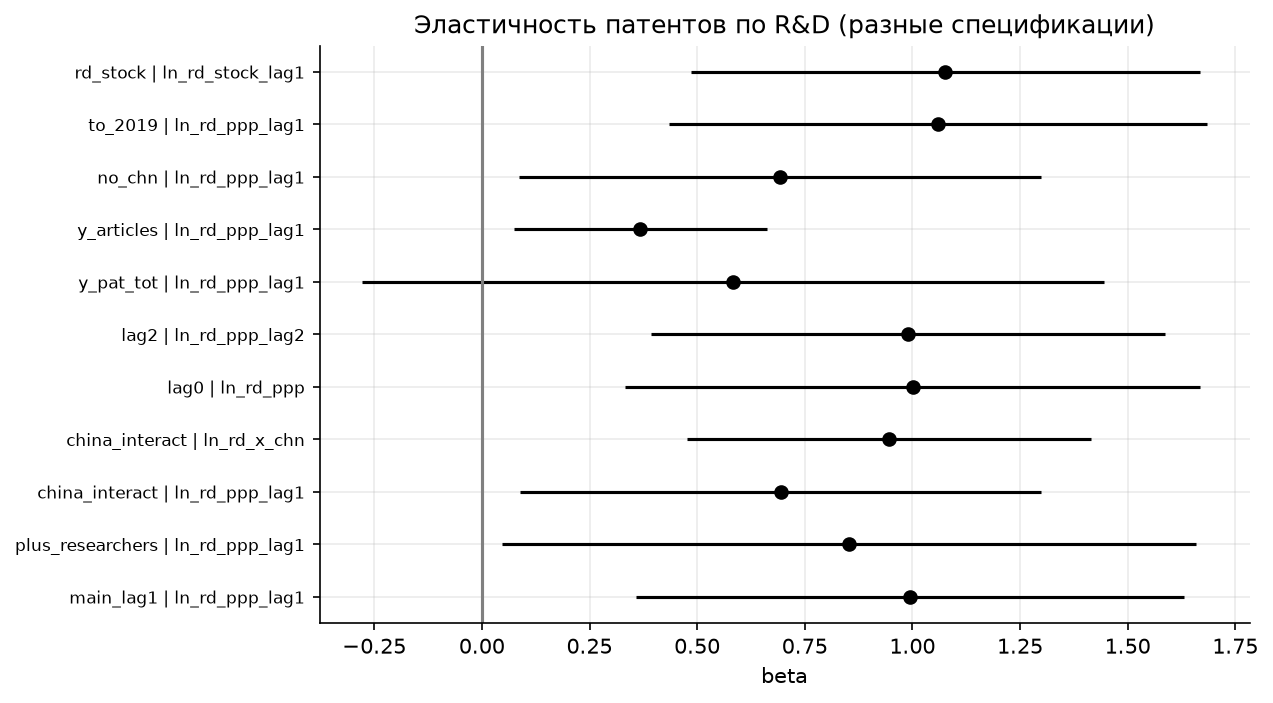
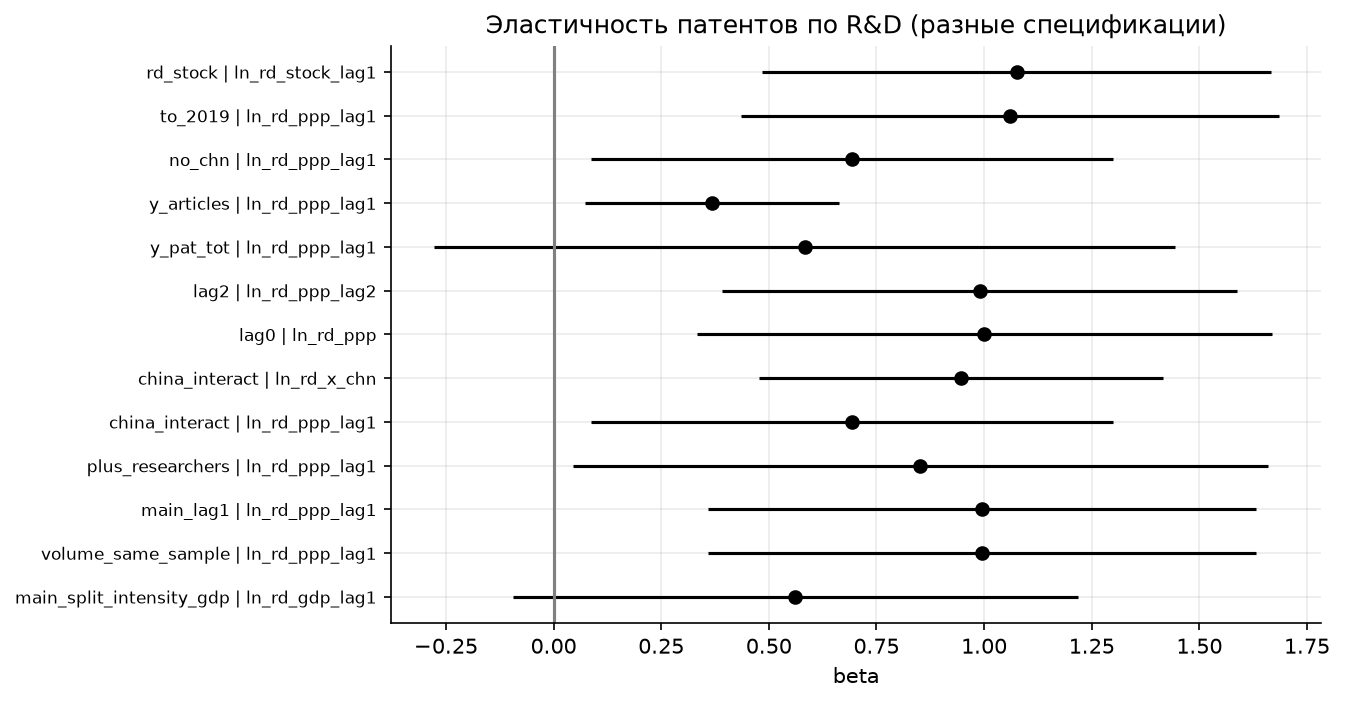
feat(H2): add split specification (R&D intensity + GDP) as main; fix rd_ppp description

diff --git a/notebooks/deep/D03_knowledge_production.py b/notebooks/deep/D03_knowledge_production.py
@@ -15,10 +15,22 @@ from _common import load_panel, save_table, save_fig, style_axes, twfe, within_d
 
 panel = load_panel().copy()
 panel["ln_rd_x_chn"] = panel["ln_rd_ppp_lag1"] * panel["is_chn"]
+panel = panel.sort_values(["country_iso3", "year"])
+panel["ln_rd_gdp_lag1"] = np.log(panel.groupby("country_iso3")["rd_gdp"].shift(1))
+panel["ln_gdp_lag1"] = np.log(panel.groupby("country_iso3")["gdp_ppp"].shift(1))
 
 # %%
 specs = []
-# main
+# main: R&D volume is intensity x GDP by construction, so the two parts are estimated separately
+d_split = panel.dropna(subset=["ln_pat_res", "ln_rd_gdp_lag1", "ln_gdp_lag1", "ln_rd_ppp_lag1"])
+t = twfe(d_split, "ln_pat_res", ["ln_rd_gdp_lag1", "ln_gdp_lag1"])
+t["spec"] = "main_split_intensity_gdp"
+specs.append(t)
+t = twfe(d_split, "ln_pat_res", ["ln_rd_ppp_lag1"])
+t["spec"] = "volume_same_sample"
+specs.append(t)
+
+# previous main (kept as a check: same model with the beta1=beta2 restriction)
 d = panel.dropna(subset=["ln_pat_res", "ln_rd_ppp_lag1"])
 t = twfe(d, "ln_pat_res", ["ln_rd_ppp_lag1"])
 t["spec"] = "main_lag1"

diff --git a/scripts/deep/build_panel.py b/scripts/deep/build_panel.py
@@ -171,7 +171,7 @@ def main() -> None:
         ("country_iso3", "ISO3 country code", "panel", "code", "identity", "OECD+CHN"),
         ("year", "Calendar year", "panel", "year", "identity", "2000-2023"),
         ("rd_gdp", "GERD % GDP", "World Bank / OECD fill", "%", "level", "CHE often biennial"),
-        ("rd_ppp", "GERD USD PPP constant-like", "OECD (+deflator if needed)", "mln USD PPP", "level", rd_note),
+        ("rd_ppp", "Оценка объёма R&D = доля R&D в ВВП × ВВП по ППС (не данные OECD)", "расчёт: World Bank rd_gdp × gdppc_ppp × pop", "USD PPP (постоянные цены)", "level", rd_note),
         ("researchers_pm", "Researchers per million", "World Bank", "per mn", "level", "coverage gaps"),
         ("articles", "S&E articles count", "World Bank", "count", "level", "volume not quality"),
         ("pat_res", "Resident patent applications", "World Bank", "count", "office-basis", "not origin"),

diff --git a/IMPLEMENTATION_CHECKLIST.md b/IMPLEMENTATION_CHECKLIST.md
@@ -75,16 +75,16 @@
 ## Stage 2 — H2: раздельная спецификация [Core]
 Субагент: Claude Sonnet 5, High Thinking
 ```text
-[ ] Блок контроля субагента
-[ ] Сортировка панели + ln_rd_gdp_lag1, ln_gdp_lag1 в D03
-[ ] Спецификации main_split_intensity_gdp и volume_same_sample (первыми в specs)
-[ ] python D03; jupytext
-[ ] Проверка: β интенсивности ≈ 0,561 (p≈0,094), β ВВП ≈ 1,752 (p≈0,002), N = 734, G = 39, CHN = 21
-[ ] D03_all_specs: +3 строки, старые идентичны; D03_vif идентичен
-[ ] Строка rd_ppp в data_dictionary_deep.csv и кортеж в build_panel.py (build_panel НЕ запускать)
-[ ] Строка REV-S2 (с пометкой «выбор после расчётов»)
-[ ] Checkpoint
-[ ] Commit: feat(H2): add split specification (R&D intensity + GDP) as main; fix rd_ppp description
+[x] Блок контроля субагента
+[x] Сортировка панели + ln_rd_gdp_lag1, ln_gdp_lag1 в D03
+[x] Спецификации main_split_intensity_gdp и volume_same_sample (первыми в specs)
+[x] python D03; jupytext
+[x] Проверка: β интенсивности ≈ 0,561 (p≈0,094), β ВВП ≈ 1,752 (p≈0,002), N = 734, G = 39, CHN = 21
+[x] D03_all_specs: +3 строки, старые идентичны; D03_vif идентичен
+[x] Строка rd_ppp в data_dictionary_deep.csv и кортеж в build_panel.py (build_panel НЕ запускать)
+[x] Строка REV-S2 (с пометкой «выбор после расчётов»)
+[x] Checkpoint
+[x] Commit: feat(H2): add split specification (R&D intensity + GDP) as main; fix rd_ppp description
 [ ] Тег impl-s2-ok
 ```
 

diff --git a/DEEP_DEVIATIONS.md b/DEEP_DEVIATIONS.md
@@ -18,3 +18,4 @@
 | 2026-09-25 | S5 | Репликация M1 HC1 дала β_GERD≈0.0076 (N=84) вместо 0.02746 из regression_results_final.csv | Возможны различия реализации LSDV/выборки/версии панели | Ladder всё равно показывает смену спецификаций; старый CSV остаётся каноном для report-20pp |
 | 2026-09-25 | S3c | OECD GERD USD PPP только ~9 стран | Ключи SDMX/покрытие MSTI | rd_ppp = intensity×GDP PPP |
 | 2026-09-26 | REV-S1 | H1: добавлены варианты нормы (без населения, норма без Китая, квадрат дохода) и проверка области данных | Вывод о США менял знак в зависимости от учёта населения; Китай вне выборки по населению | Вывод о США формулируется условно; вывод о Китае устойчив по знаку |
+| 2026-09-26 | REV-S2 | H2: основной стала раздельная модель (ln доли R&D и ln ВВП); прежняя модель с объёмом R&D — проверка; исправлено описание rd_ppp | Объём R&D сконструирован как доля × ВВП, поэтому прежний коэффициент смешивал R&D и размер экономики. Выбор сделан ПОСЛЕ расчётов | Связь с интенсивностью R&D слабая (p≈0,09); значительная часть прежней связи — рост экономики |
